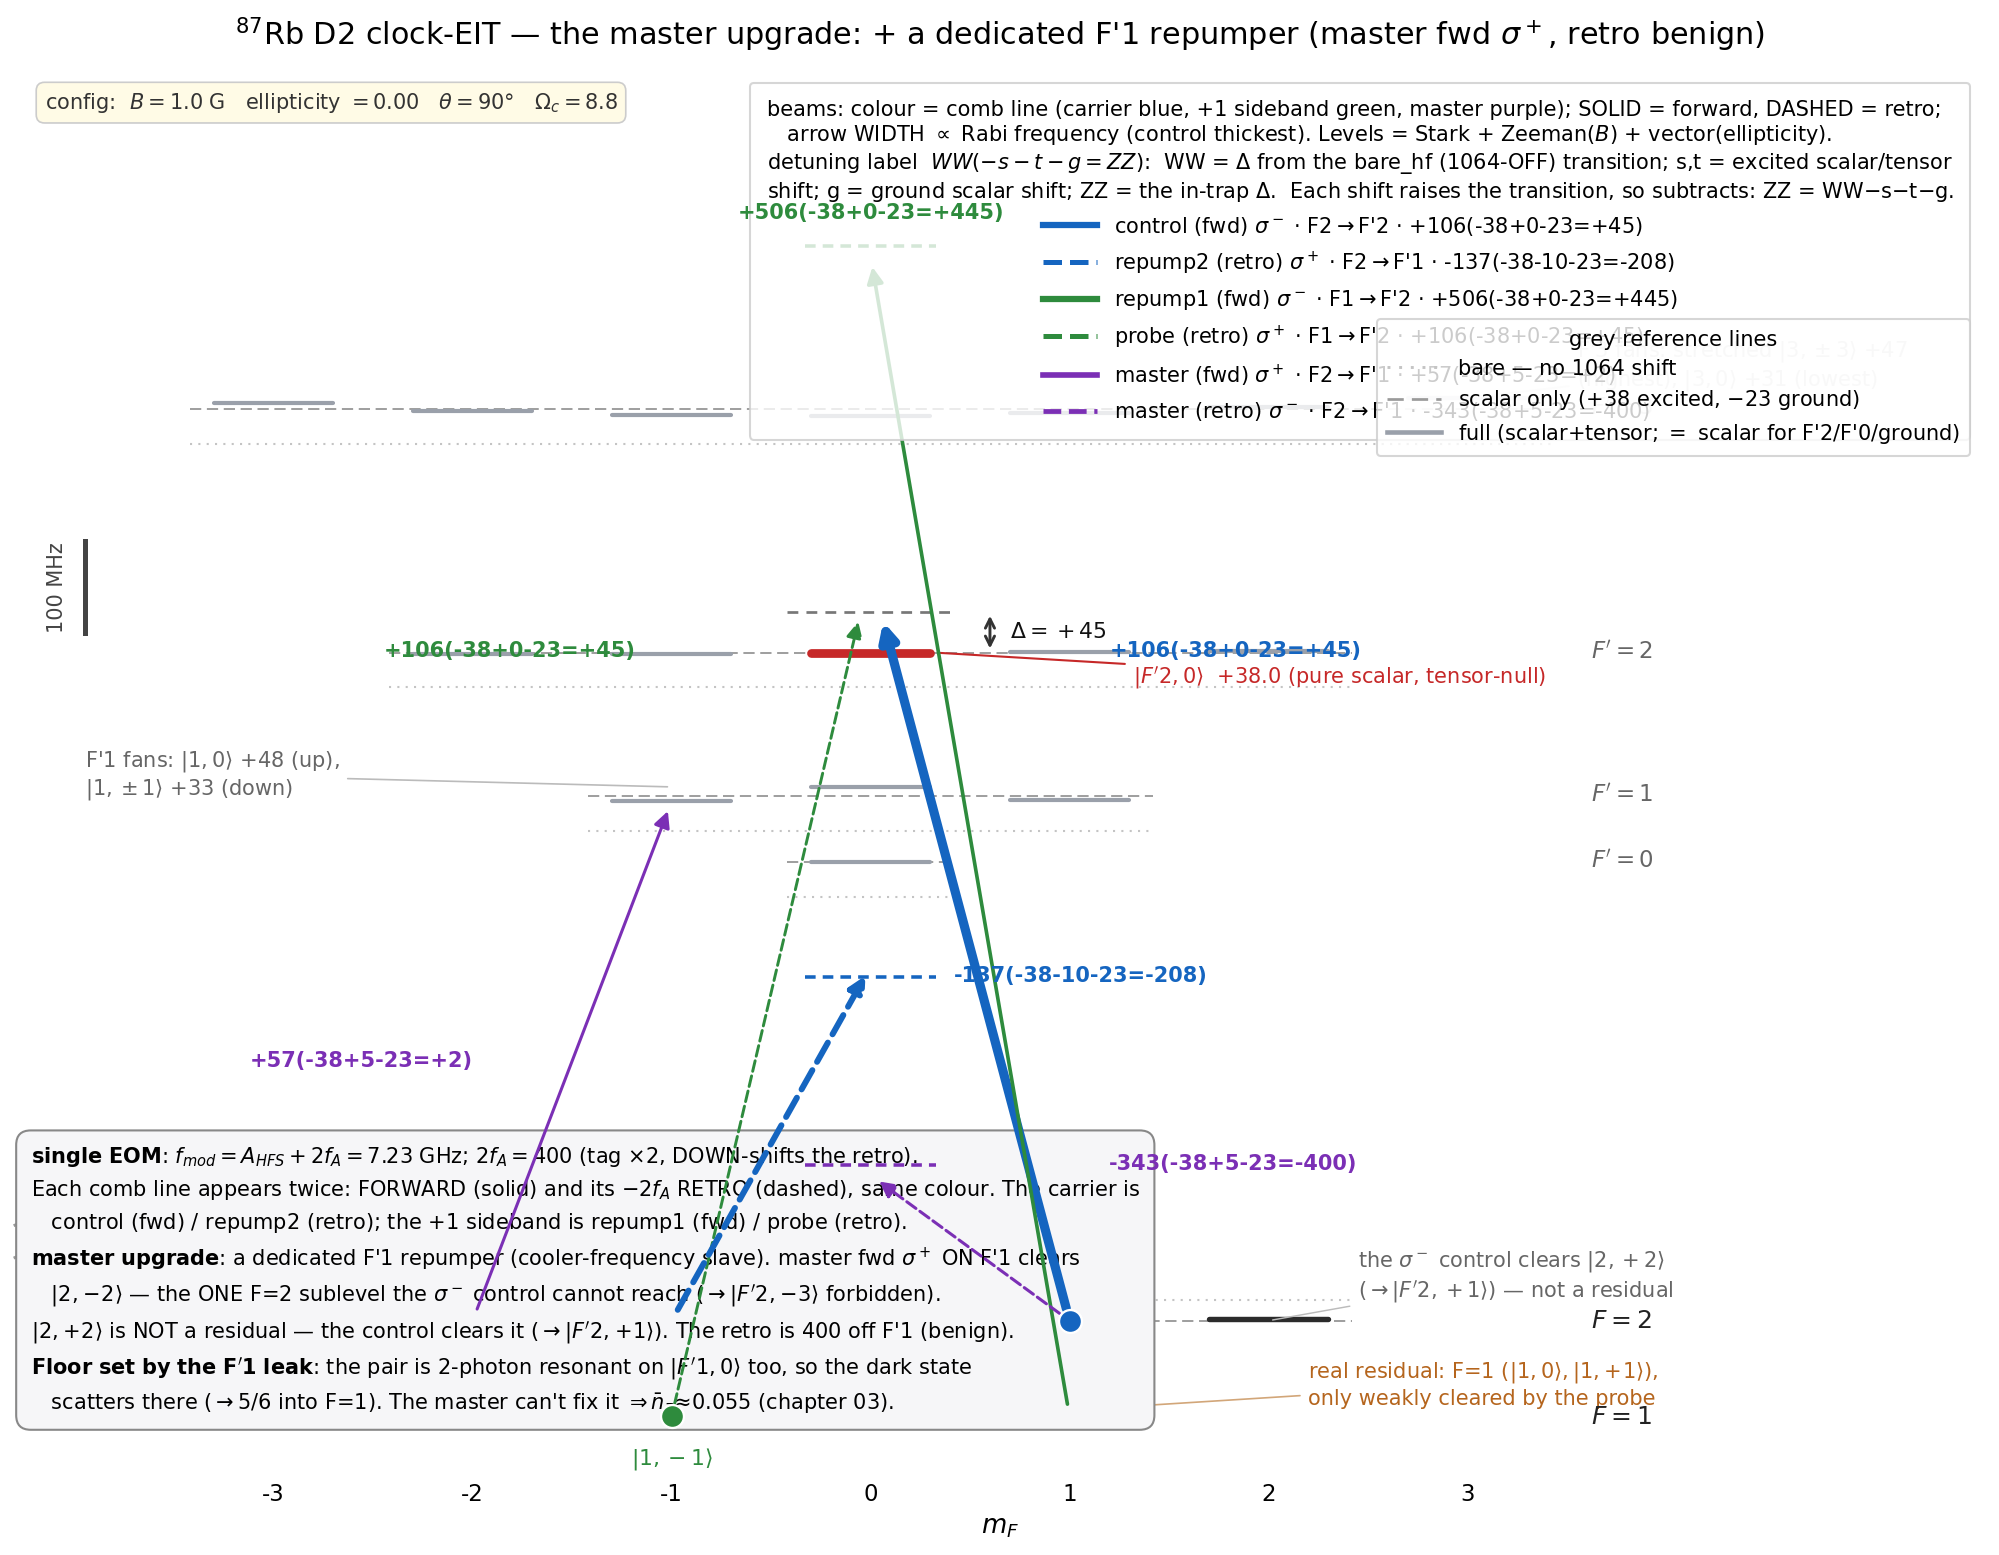
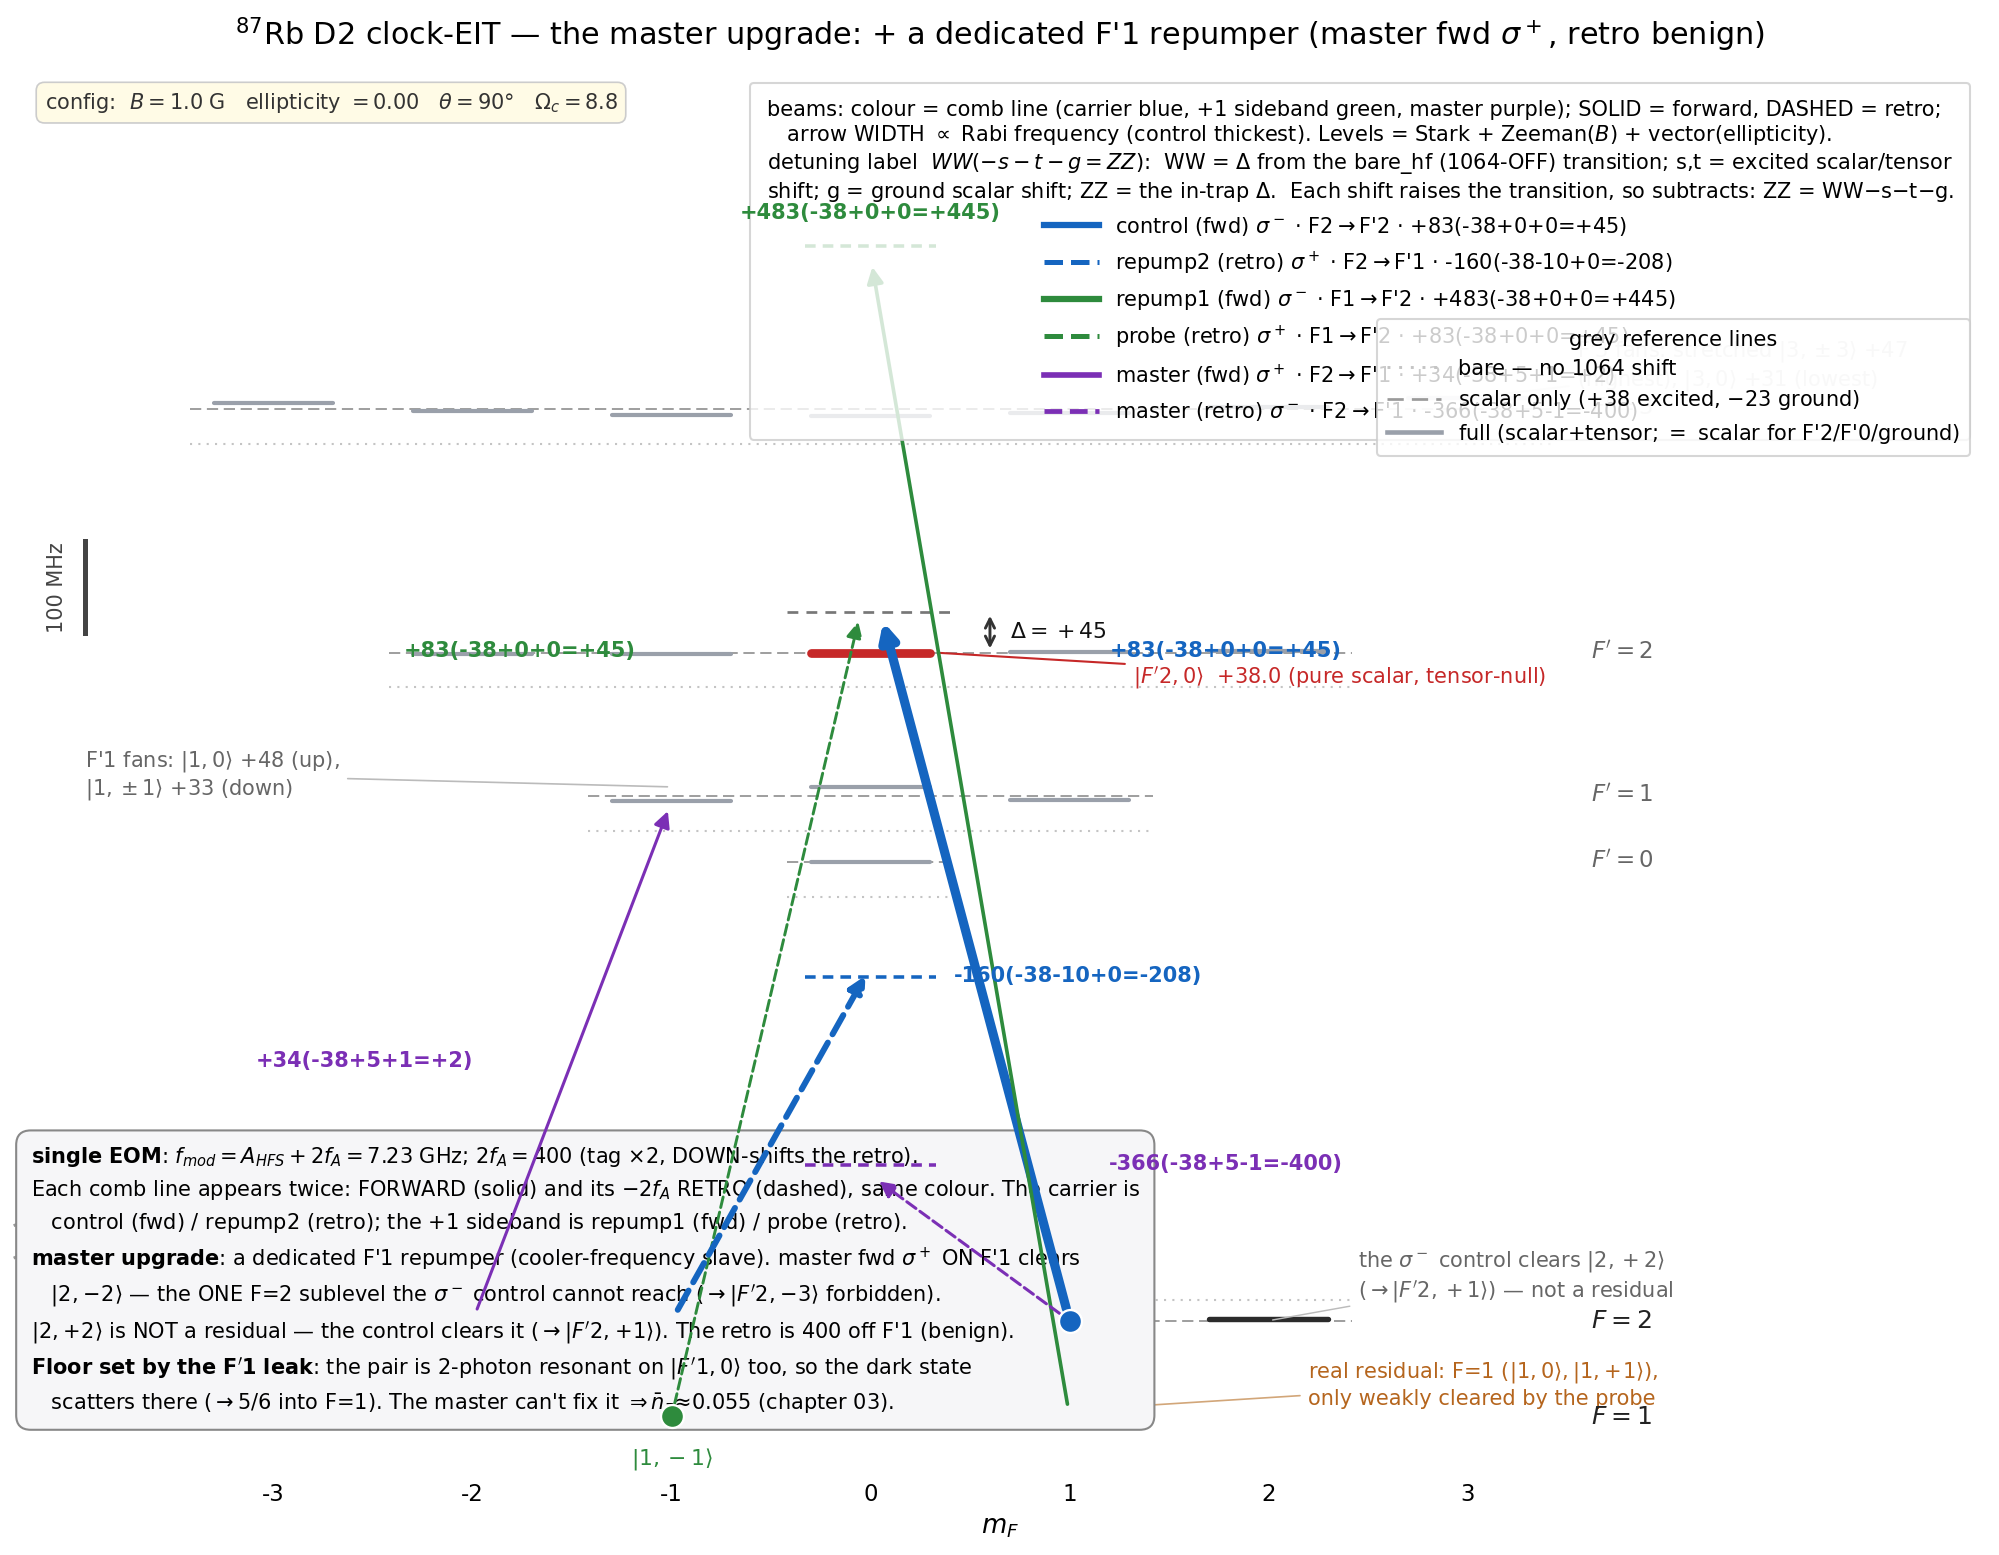
Fix the level-scheme detuning-label decomposition
The per-beam label WW(-s-t-...=ZZ) folded the ground scalar shift into WW and omitted the
excited Zeeman shift, so the decomposition did not close for the m'=+-1 master beams. WW is
now the true bare (1064-off) detuning, and the excited Zeeman (+vector) shift is shown
explicitly, so ZZ = WW - s - t - z closes exactly for every beam. The in-trap detunings ZZ
are unchanged. The ground scalar shift is absent because it moves both ground states equally
-- it shifts the two-photon resonance (delta2), not this single-photon detuning.

diff --git a/02_multilevel/src/level_scheme.py b/02_multilevel/src/level_scheme.py
@@ -8,11 +8,14 @@ Generates TWO figures (one script so the two stay consistent):
 Colour = comb line (same beam forward AND retro share a colour): carrier = blue, +1 sideband = green,
 780 master = purple.  SOLID = forward pass, DASHED = backward (retro) pass.
 
-Each beam's detuning label is the Stark decomposition  WW(-s-t-g=ZZ):
-  WW = detuning from the bare_hf (1064-OFF) transition;
+Each beam's detuning label is the shift decomposition  WW(-s-t-z=ZZ):
+  WW = detuning from the bare (1064-OFF) transition;
   s  = excited scalar 1064 shift (+38);   t = excited tensor 1064 shift (signed);
-  g  = ground scalar 1064 shift (+23);    ZZ = the IN-TRAP detuning the atom sees.
-Each Stark shift raises the F->F' transition, so each SUBTRACTS from the (blue) detuning: ZZ = WW - s - t - g.
+  z  = excited Zeeman (+ vector) shift    (0 for m'=0, or for linear polarization);
+  ZZ = the IN-TRAP single-photon detuning the atom sees (measured to the shifted excited level).
+Each excited-level shift raises the F->F' transition, so each SUBTRACTS: ZZ = WW - s - t - z.  The ground
+scalar shift moves BOTH ground states equally, so it does NOT change this single-photon detuning -- it shifts
+the two-photon resonance instead (set by delta2) -- and therefore does not appear here.
 
 All frequencies are 2*pi*MHz.
 """
@@ -75,14 +78,19 @@ is_forward = dict(control=True, rep1=True, mfwd=True, probe=False, rep2=False, m
 beam_targets = dict(control=(control_probe_freq, 2, 0), probe=(control_probe_freq, 2, 0), rep1=(repump1_freq, 2, 0),
            rep2=(repump2_freq, 1, 0), mfwd=(master_fwd_freq, 1, -1), mret=(master_retro_freq, 1, 1))
 def stark_parts(key):
-    """(WW bare-detuning, s exc-scalar, t exc-tensor, g gnd-scalar, ZZ in-trap detuning); ZZ = WW - s - t - g."""
+    """(WW bare-detuning, s exc-scalar, t exc-tensor, z exc-Zeeman(+vector), ZZ in-trap detuning); ZZ = WW - s - t - z.
+       The ground scalar shift is absent on purpose: this is the single-photon detuning to the (shifted) excited
+       level, which the ground shift does not move -- it moves the two-photon resonance (set by delta2) instead."""
     Llight, Fp, mp = beam_targets[key]
-    s, t, g = scalar_shift, stark.stark_tensor(Fp, mp, theta), trap_depth
-    return (Llight - bare_hf[Fp] + trap_depth, s, t, g, Llight - level_in_trap(Fp, mp))
+    s = scalar_shift
+    t = stark.stark_tensor(Fp, mp, theta)
+    z = zeeman(gF_excited, mp) + stark.stark_vector(c.alpha1_5P32, Fp, mp, c.ellipticity)   # Zeeman (+ vector if elliptical)
+    return (Llight - bare_hf[Fp], s, t, z, Llight - level_in_trap(Fp, mp))
 def label(key):
-    WW, s, t, g, ZZ = stark_parts(key)
+    WW, s, t, z, ZZ = stark_parts(key)
     tterm = -t if abs(t) > 0.5 else 0.0                    # tensor contribution (0.0, not -0.0, when tensor-null)
-    return "%+.0f(%+.0f%+.0f%+.0f=%+.0f)" % (WW, -s, tterm, -g, ZZ)
+    zterm = -z if abs(z) > 0.5 else 0.0                    # Zeeman(+vector); 0 for m'=0 or linear polarization
+    return "%+.0f(%+.0f%+.0f%+.0f=%+.0f)" % (WW, -s, tterm, zterm, ZZ)
 
 
 # ---- drawing primitives (each takes the axes; width/colour come from the tone dictionaries above) ----

diff --git a/02_multilevel/README.md b/02_multilevel/README.md
@@ -38,9 +38,11 @@ visible). **|F′2,0⟩ is flat at +38 (tensor-null)** — the clean target — 
 beam forward and retro share a colour (carrier = blue, +1 sideband = green); **solid = forward, dashed = retro**.
 The Λ is control σ⁻ (forward carrier) + probe σ⁺ (retro of the +1 sideband); the repumpers are the leftover comb
 tones — repump1 σ⁻ (forward +1 sideband → F1→F′2) and repump2 σ⁺ (retro carrier → F2→F′1), both off-resonant
-(their closer F′3/F′0 lines are ΔF=±2 dipole-forbidden). Each beam's label is the Stark decomposition
-**WW(−s−t−g=ZZ)**: WW = detuning from the bare (1064-OFF) transition; s, t = excited scalar/tensor shift;
-g = ground scalar shift; ZZ = the in-trap detuning (each shift raises the transition, so subtracts). From
+(their closer F′3/F′0 lines are ΔF=±2 dipole-forbidden). Each beam's label is the shift decomposition
+**WW(−s−t−z=ZZ)**: WW = detuning from the bare (1064-OFF) transition; s, t = excited scalar/tensor shift;
+z = excited Zeeman(+vector) shift (0 for m′=0 or linear pol); ZZ = the in-trap single-photon detuning (each
+excited-level shift raises the transition, so subtracts; the ground scalar shift moves both ground states
+equally, so it sets δ₂ rather than this detuning and is absent here). From
 [`level_scheme.py`](src/level_scheme.py).*
 
 ## 3. Repumping is essential — and it is the real cost
@@ -94,7 +96,7 @@ whose only workaround with hardware is the optional dedicated F′1 repumper, th
 | `cooling_multilevel.py` | the multilevel Lindblad floor, repumpers in the computation (~1 min) |
 | `clebsch_gordan_checks.py` | reconstructs known ⁸⁷Rb D2 facts from raw Clebsch–Gordan (checks the conventions) |
 | `explore_configs.py` | the single-EOM / one-AOM configuration sweep (why the current placement wins) |
-| `level_scheme.py` | the 24-level scheme figures on the 1064-shifted manifold — both the baseline (no master) and the master variant, written into this chapter's `images/`; colour = comb line, solid/dashed = forward/retro, each beam's label is the Stark decomposition `WW(−s−t−g=ZZ)` (bare detuning → in-trap) |
+| `level_scheme.py` | the 24-level scheme figures on the 1064-shifted manifold — both the baseline (no master) and the master variant, written into this chapter's `images/`; colour = comb line, solid/dashed = forward/retro, each beam's label is the shift decomposition `WW(−s−t−z=ZZ)` (bare detuning → in-trap) |
 
 **Run:** `python src/level_scheme.py` (no solve) · `python src/cooling_multilevel.py` (~1 min) ·
 `python src/clebsch_gordan_checks.py` · `python src/explore_configs.py`.